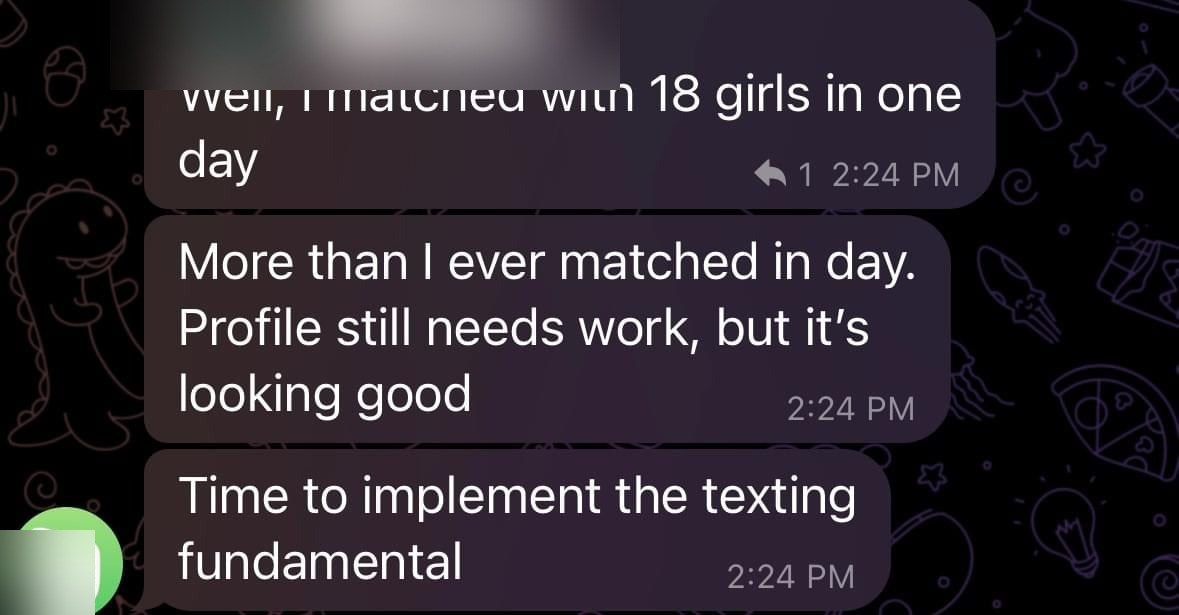
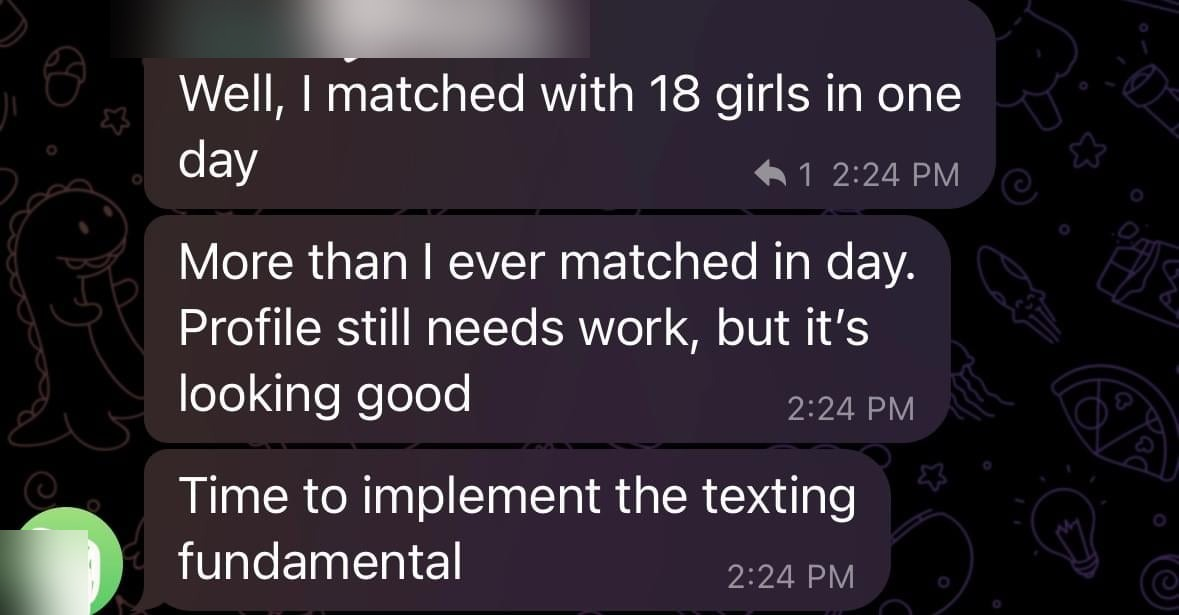
fix: surgical image blur, italic Based Zeus, mobile testimonials as image cards

Changed region(s): [[0.1527, 0.0618, 0.5496, 0.1545], [0.0305, 0.865, 0.0916, 1.0], [0.0916, 0.1236, 0.1221, 0.1545]]

diff --git a/index.html b/index.html
@@ -4214,6 +4214,39 @@ body.deliv-modal-open { overflow: hidden; }
   }
 }
 
+/* Mobile testimonial image cards — replaces notification feed */
+.tg-mobile-pics { display: none; }
+@media (max-width: 768px) {
+  .testi-scroll-feed { display: none !important; }
+  .tg-mobile-pics {
+    display: flex;
+    flex-direction: column;
+    gap: 14px;
+    margin-top: 28px;
+    max-height: 500px;
+    overflow-y: scroll;
+    scrollbar-width: none;
+    padding: 4px 2px 40px;
+    -webkit-mask-image: linear-gradient(to bottom, transparent 0, #000 6%, #000 88%, transparent 100%);
+    mask-image: linear-gradient(to bottom, transparent 0, #000 6%, #000 88%, transparent 100%);
+  }
+  .tg-mobile-pics::-webkit-scrollbar { display: none; }
+  .tg-pic-card {
+    background: var(--card);
+    border: 1px solid var(--border-2);
+    border-radius: 16px;
+    overflow: hidden;
+    flex-shrink: 0;
+    backdrop-filter: blur(10px);
+    -webkit-backdrop-filter: blur(10px);
+  }
+  .tg-pic-card img {
+    width: 100%;
+    height: auto;
+    display: block;
+  }
+}
+
 /* Screenshot testimonial image cards */
 .tc-img-card { padding: 0 !important; overflow: hidden; width: 280px; }
 .tc-img-card img { border-radius: 14px; }
@@ -5097,7 +5130,7 @@ body.deliv-modal-open { overflow: hidden; }
       <p class="eyebrow">Meet the founder</p>
       <h2>I'm Benjamin Seda,<br><em>founder of Atlas Advisory.</em></h2>
       <p>I've been advising men on dating and relationships for over a decade.</p>
-      <p>(You may remember me from my early days as "Based Zeus")</p>
+      <p><em>(You may remember me from my early days as "Based Zeus")</em></p>
       <p style="color:var(--w55); font-size:14px; font-weight:600; margin-bottom:8px;">Over the last 10 years, I've personally:</p>
       <ul style="list-style:none; padding:0; margin:0 0 24px; display:flex; flex-direction:column; gap:10px;">
         <li style="display:flex; gap:10px; align-items:flex-start; font-size:15px; color:var(--w75);"><span style="color:var(--gold); flex-shrink:0; margin-top:2px;">&#10003;</span>Built thousands of dating profiles and Instagrams</li>
@@ -5135,8 +5168,18 @@ body.deliv-modal-open { overflow: hidden; }
       <img src="img/tg-testimonials/IMG_2503.jpg" alt="Client result — mindset shift">
     </div>
 
-    <!-- Mobile: single vertical scroll feed (notif-style, rAF auto-scroll) -->
-    <div class="testi-scroll-feed" id="testiMobileFeed">
+    <!-- Mobile: scrollable image cards -->
+    <div class="tg-mobile-pics">
+      <div class="tg-pic-card">
+        <img src="img/tg-testimonials/IMG_2685-2.jpg" alt="Client result">
+      </div>
+      <div class="tg-pic-card">
+        <img src="img/tg-testimonials/IMG_2503.jpg" alt="Client result">
+      </div>
+    </div>
+
+    <!-- Mobile: notification feed (desktop hidden, kept for JS scroll loop) -->
+    <div class="testi-scroll-feed" id="testiMobileFeed" style="display:none!important;">
       <div class="testi-feed-track">
 
         <div class="notif">
